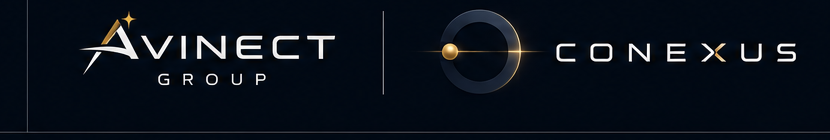
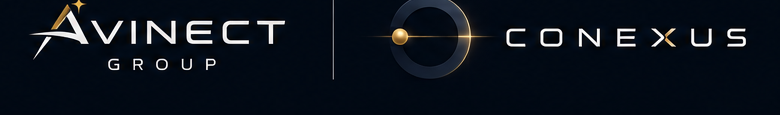
fix(conexus): use real CONEXUS wordmark image + tighten group lockup
- Crop wordmark.png from brand sheet (preserves gold X stylization)
  and use it in hero instead of plain text
- Re-crop group-lockup.png tighter (remove left/bottom borders that
  were leaking from divider lines on the brand sheet)
- Remove now-unused ConexusWordmark JSX component

Changed region(s): [[0.4615, 0.0, 0.9846, 0.6783], [0.0308, 0.0, 0.4308, 0.6261], [0.0, 0.9391, 1.0, 0.9652]]

diff --git a/src/pages/Conexus.tsx b/src/pages/Conexus.tsx
@@ -25,15 +25,6 @@ import {
 } from '../components'
 import { useTranslation } from 'react-i18next'
 
-function ConexusWordmark({ className = '' }: { className?: string }) {
-  return (
-    <span className={`font-display font-bold tracking-[0.18em] ${className}`}>
-      <span>CONE</span>
-      <span className="text-conexus-secondary">X</span>
-      <span>US</span>
-    </span>
-  )
-}
 
 const pillarKeys = ['compute', 'compliance', 'treasury'] as const
 const pillarIcons = [Cpu, ShieldCheck, Landmark]
@@ -80,14 +71,14 @@ export default function Conexus() {
               <span className="text-conexus-secondary text-sm">{t('conexus.badge')}</span>
             </motion.div>
 
-            <motion.div
+            <motion.img
               initial={{ opacity: 0, y: 20 }}
               animate={{ opacity: 1, y: 0 }}
               transition={{ delay: 0.3, duration: 0.6 }}
-              className="mb-4"
-            >
-              <ConexusWordmark className="text-4xl md:text-5xl lg:text-6xl" />
-            </motion.div>
+              src={`${import.meta.env.BASE_URL}images/conexus/wordmark.png`}
+              alt="CONEXUS"
+              className="block mb-6 h-12 md:h-16 lg:h-20 w-auto"
+            />
 
             <motion.p
               initial={{ opacity: 0 }}
